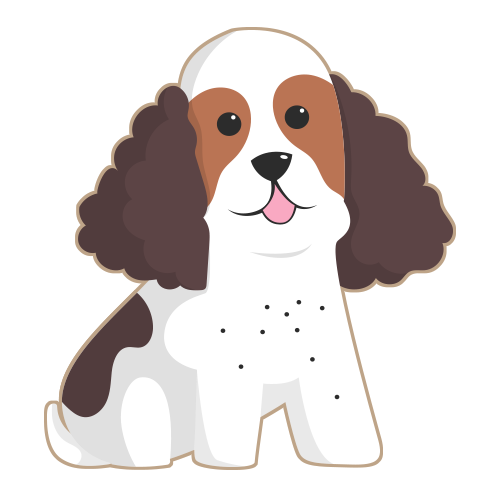
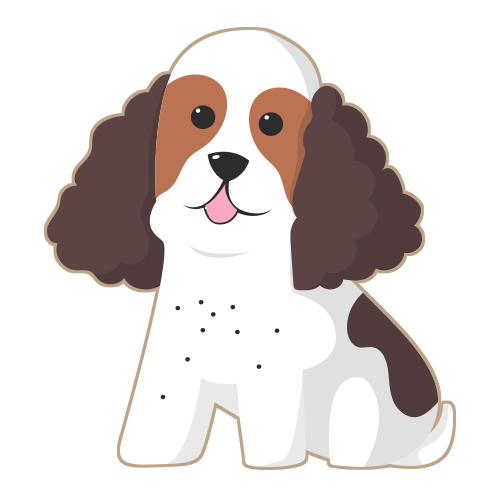
added a picture to the pricing page.

diff --git a/index.html b/index.html
@@ -46,7 +46,15 @@
             <!--Welcome section-->
             <div id="leftcol">
 				<h2>Welcome</h2>
-                <p>Here at Jojo’s Dog Grooming, your dog’s well-being is our top concern. Our certified groomer uses top of the line products to ensure that your pups will leave healthy, smelling and feeling amazing. Your dog will always have a day of tail-wagging fun when you choose Jojo’s Dog Grooming. When you bring your dog to the groomers, you expect exceptional service, along with reasonable and affordable prices. That’s why at Jojo’s Dog Grooming, we provide the utmost attention to your dog’s needs.</p>
+                <p>Here at <strong>Jojo’s Dog Grooming,</strong> your dog’s well-being is our top concern.</p>
+                <p>Our <strong>certified groomer</strong> uses top of the line products to ensure that your pups will leave healthy, 
+                smelling and feeling amazing.</p>
+                <p>Your dog will always have a day of <strong>tail-wagging fun</strong> when you choose
+                <strong>Jojo’s Dog Grooming.</strong></p>
+                <p>When you bring your dog to the groomers, you expect <strong>exceptional service</strong>,
+                along with reasonable and <strong>affordable prices.</strong></p>
+                <p>That’s why at <strong>Jojo’s Dog Grooming,</strong> we provide the
+                utmost attention to your dog’s needs.</p>
 				<img src="Images/poodle.png" alt="poodle" height="300" width="300">
 			</div>
             
@@ -60,7 +68,7 @@
                 <p>Take a look around. <a href="sign.html">Register</a> and sign in to the site to receive news, deals and special offers.</p>
                 <p>You can now book your appointments online through our <a href="Services/booking.html">Booking</a> page.</p>
                 <p>Check out our <a href="Services/Pricing.html">Pricing</a> page for a list of dog services we are providing.</p>
-                <p>Our <a href="Services/FAQs.html">FAQs</a> page will answer our most frequently asked questions.</p>
+                <p>Our <a href="Services/faqs.html">FAQs</a> page will answer our most frequently asked questions.</p>
 			</div>
         </div>
 

diff --git a/Style/Base.css b/Style/Base.css
@@ -17,6 +17,17 @@ body {
     margin: 0;
     padding: 0;
 }
+strong {
+    font-weight:  bold;
+    color: #74A495;
+}
+#cockerspaniel {
+    float: right;
+    position: relative;
+    top: 0;
+    left: 600px;
+    margin-right: 0px;
+}
 /*The links default colour.*/
 a {
     font-weight: bold;

diff --git a/Services/Pricing.html b/Services/Pricing.html
@@ -85,6 +85,7 @@
                         <td></td>
                     </tr>
                 </table>
+                <img src="../Images/cockerSpaniel.png" alt="cockerspaniel" height="300" width="300" id="cockerspaniel">
 			</div>
         </div>
 		<footer>
